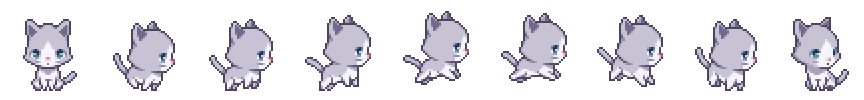
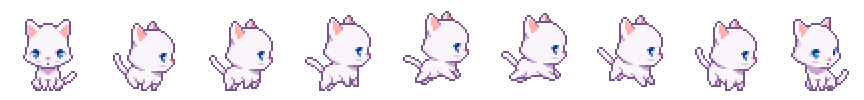
#3 :sparkles: cat change

diff --git a/catchcatch/source/JS/GAME/game.js b/catchcatch/source/JS/GAME/game.js
@@ -101,6 +101,30 @@ function preload() {
     frameWidth: 96,
     frameHeight: 100,
   });
+  this.load.spritesheet("cat2", "images/cat/cat2.png", {
+    frameWidth: 116,
+    frameHeight: 112,
+  });
+  this.load.spritesheet("cat3", "images/cat/cat3.png", {
+    frameWidth: 116,
+    frameHeight: 112,
+  });
+  this.load.spritesheet("cat4", "images/cat/cat4.png", {
+    frameWidth: 96,
+    frameHeight: 100,
+  });
+  this.load.spritesheet("cat5", "images/cat/cat5.png", {
+    frameWidth: 96,
+    frameHeight: 100,
+  });
+  this.load.spritesheet("cat6", "images/cat/cat6.png", {
+    frameWidth: 116,
+    frameHeight: 112,
+  });
+  this.load.spritesheet("cat7", "images/cat/cat7.png", {
+    frameWidth: 96,
+    frameHeight: 100,
+  });
 
   // 공격 스프라이트
   this.load.spritesheet(
@@ -247,9 +271,9 @@ function create() {
   //player start
   cats = require("./jsons/cats.json");
   fairySet = require("./jsons/fairys.json");
-  console.log(cats);
+  console.log(ChoiceCat);
   player = cats[catNumber];
-  player = new Player(this, 1, 100, 100);
+  player = new Player(this, 1, 100, 100, "cat"+(ChoiceCat+1));
   player.setDepth(1);
   console.log(player);
   console.log(player);
@@ -276,7 +300,7 @@ function create() {
   fairySet[1] = new Fairy(this, 100, 10, 1, 1, 70, 10, 160, 2, player);
   fairySet[2] = new Fairy(this, 100, 0, 1, 3, 80, 10, 300, 3, player);
   fairySet[3] = new Fairy(this, 100, 10, 1, 4, 90, 10, 400, 4, player);
-  fairySet[3].initFairy3(0, 0);
+  fairySet[3].initFairy3(1, 10);
   fairySet[4] = new Fairy(this, 100, 10, 1, 5, 100, 10, 500, 5, player);
   for (let i = 0; i < 5; i++) {
     fairySet[i].setDepth(1);
@@ -354,23 +378,7 @@ function create() {
     repeat: 0,
   });
 
-  this.anims.create({
-    key: "turn",
-    frames: this.anims.generateFrameNumbers("cat1", { start: 0, end: 0 }),
-    frameRate: 10,
-  });
-  this.anims.create({
-    key: "left",
-    frames: this.anims.generateFrameNumbers("cat1", { start: 1, end: 7 }),
-    frameRate: 10,
-    repeat: -1,
-  });
-  this.anims.create({
-    key: "right",
-    frames: this.anims.generateFrameNumbers("cat1", { start: 1, end: 7 }),
-    frameRate: 10,
-    repeat: -1,
-  });
+
 
   // 공격 애니메이션
   this.anims.create({

diff --git a/catchcatch/source/JS/GAME/GameObj/player.js b/catchcatch/source/JS/GAME/GameObj/player.js
@@ -23,9 +23,9 @@ export default class Player extends Phaser.Physics.Arcade.Sprite {
   heal = 0;
   fairy;
   invincible = false;
-  constructor(scene, dmgmul, maxHealth, health) {
+  constructor(scene, dmgmul, maxHealth, health, catname) {
 
-    super(scene, 0, 0, "cat1");
+    super(scene, 0, 0, catname);
     this.scale = 0.7;
     this.alpha = 1;
     this.dmgmul = dmgmul;
@@ -33,6 +33,24 @@ export default class Player extends Phaser.Physics.Arcade.Sprite {
     this.health = health;
     scene.add.existing(this);
     scene.physics.add.existing(this);
+
+    scene.anims.create({
+      key: "turn",
+      frames: this.anims.generateFrameNumbers(catname, { start: 0, end: 0 }),
+      frameRate: 10,
+    });
+    scene.anims.create({
+      key: "left",
+      frames: this.anims.generateFrameNumbers(catname, { start: 1, end: 7 }),
+      frameRate: 10,
+      repeat: -1,
+    });
+    scene.anims.create({
+      key: "right",
+      frames: this.anims.generateFrameNumbers(catname, { start: 1, end: 7 }),
+      frameRate: 10,
+      repeat: -1,
+    });
 
   }
 

diff --git a/catchcatch/source/JS/GAME/GameObj/fairy.js b/catchcatch/source/JS/GAME/GameObj/fairy.js
@@ -14,8 +14,8 @@ export default class Fairy extends Phaser.Physics.Arcade.Sprite {
   timer = 0;
   maxAttackCount;
   attackCount;
-  maxPierceCount = 0;
-  pierceCount = 0;
+  maxPierceCount = 99999;
+  pierceCount = 99999;
   velo;
   size;
   vampire;
